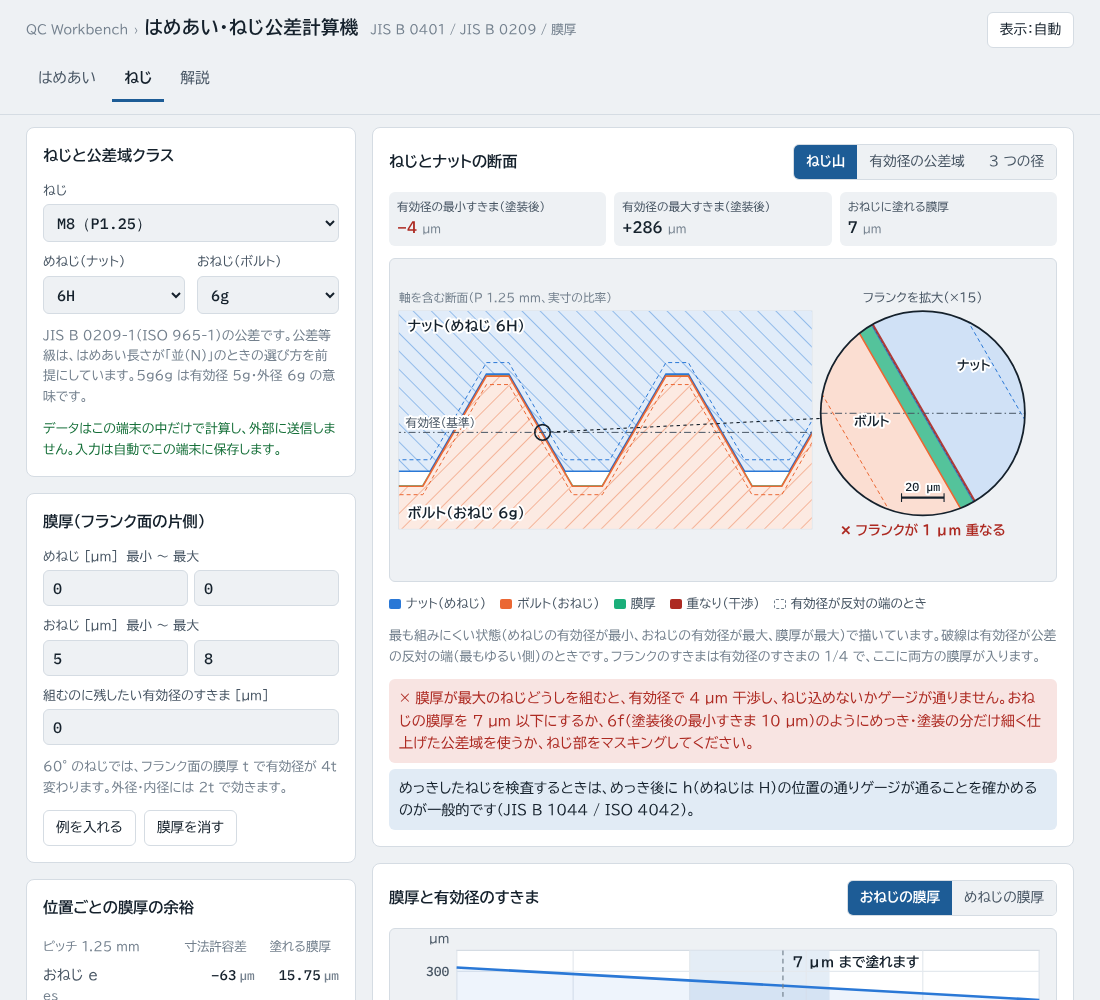
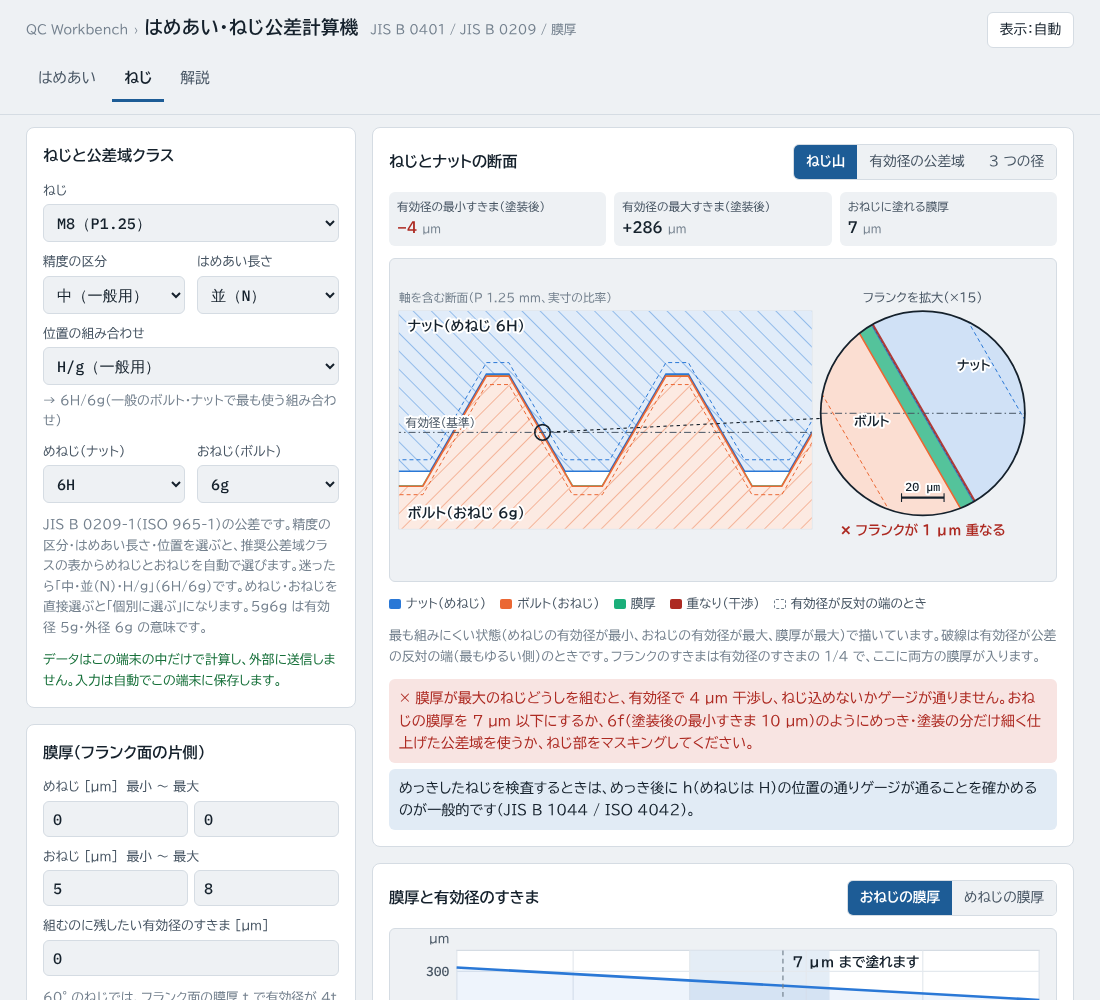
ねじの公差域クラスを、精度の区分・はめあい長さ・位置から推奨表どおりに自動で選べるようにする
- JIS B 0209-1（ISO 965-1）の推奨公差域クラスの表を持ち、めねじとおねじの組み合わせを選ぶ
- 推奨表にない長さ・位置は選べないようにし、区分を変えたときは使えるものに寄せる
- ピッチが小さく定められていない等級は理由を表示する
- めねじ・おねじを直接選ぶと、推奨表にあたる区分を表示し、なければ「個別に選ぶ」にする
- おねじに 4g・5g4g・5h4h・9e8e を追加
- 解説に推奨表を載せ、テストを追加（196 件）

Changed region(s): [[0.0309, 0.248, 0.3091, 1.0], [0.0309, 0.248, 0.0927, 0.279]]

diff --git a/js/app.js b/js/app.js
@@ -20,7 +20,7 @@
 
   // ---- 状態 ----
   const FIT_EX = { D: '25', hl: 'H', hg: '7', sl: 'g', sg: '6', th0: '0', th1: '0', ts0: '10', ts1: '20', creq: '0' };
-  const THR_EX = { sel: '8|1.25', d: '', P: '', ic: '6H', ec: '6g', ti0: '0', ti1: '0', te0: '5', te1: '8', creq: '0' };
+  const THR_EX = { sel: '8|1.25', d: '', P: '', q: 'medium', len: 'N', fp: 'Hg', ic: '6H', ec: '6g', ti0: '0', ti1: '0', te0: '5', te1: '8', creq: '0' };
   const DEF = { mode: 'fit', fit: { ...FIT_EX, sweep: 's', list: 'hole' }, thr: { ...THR_EX, sweep: 'e', zone: 'shape' } };
   let st = store.get(KEY);
   if (!st || !st.fit || !st.thr) st = JSON.parse(JSON.stringify(DEF));
@@ -48,17 +48,60 @@
     `<optgroup label="その他">${opt('custom', '呼び径とピッチを入れる')}</optgroup>`;
   $('tIc').innerHTML = FC.INT_CLASSES.map(c => opt(c, c)).join('');
   $('tEc').innerHTML = FC.EXT_CLASSES.map(c => opt(c, c)).join('');
+  $('tQ').innerHTML = opt('', '個別に選ぶ') + Object.entries(FC.QUALITY_JA).map(([v, t]) => opt(v, t + (v === 'medium' ? '（一般用）' : v === 'fine' ? '（精密）' : '（粗い）'))).join('');
+  $('tL').innerHTML = FC.LENGTHS.map(v => opt(v, FC.LENGTH_JA[v])).join('');
+  $('tFp').innerHTML = FC.THREAD_POS.map(x => opt(x.v, x.ja)).join('');
 
   // ---- 入力と状態の対応 ----
   const FIT_IN = { fD: 'D', fHl: 'hl', fHg: 'hg', fSl: 'sl', fSg: 'sg', fTh0: 'th0', fTh1: 'th1', fTs0: 'ts0', fTs1: 'ts1', fCreq: 'creq' };
-  const THR_IN = { tSel: 'sel', tD: 'd', tP: 'P', tIc: 'ic', tEc: 'ec', tTi0: 'ti0', tTi1: 'ti1', tTe0: 'te0', tTe1: 'te1', tCreq: 'creq' };
+  const THR_IN = { tSel: 'sel', tD: 'd', tP: 'P', tQ: 'q', tL: 'len', tFp: 'fp', tIc: 'ic', tEc: 'ec', tTi0: 'ti0', tTi1: 'ti1', tTe0: 'te0', tTe1: 'te1', tCreq: 'creq' };
   function fillInputs() {
     Object.entries(FIT_IN).forEach(([id, k]) => { $(id).value = st.fit[k] ?? ''; });
     Object.entries(THR_IN).forEach(([id, k]) => { $(id).value = st.thr[k] ?? ''; });
     $('fPreset').value = PRESETS.some(p => p[0] === `${st.fit.hl}${st.fit.hg}/${st.fit.sl}${st.fit.sg}`) ? `${st.fit.hl}${st.fit.hg}/${st.fit.sl}${st.fit.sg}` : '';
   }
   Object.entries(FIT_IN).forEach(([id, k]) => $(id).addEventListener($(id).tagName === 'SELECT' ? 'change' : 'input', () => { st.fit[k] = $(id).value; save(); render(); }));
-  Object.entries(THR_IN).forEach(([id, k]) => $(id).addEventListener($(id).tagName === 'SELECT' ? 'change' : 'input', () => { st.thr[k] = $(id).value; save(); render(); }));
+  Object.entries(THR_IN).forEach(([id, k]) => $(id).addEventListener($(id).tagName === 'SELECT' ? 'change' : 'input', () => {
+    st.thr[k] = $(id).value;
+    if (k === 'q' || k === 'len' || k === 'fp') { if (k !== 'q' && !st.thr.q) st.thr.q = 'medium'; applyStd(); }
+    else if (k === 'ic' || k === 'ec') syncStd();
+    fillInputs(); save(); render();
+  }));
+  // 標準の組み合わせ：精度の区分・はめあい長さ・位置から、めねじとおねじの公差域クラスを決める
+  // 推奨表にある組み合わせか（ねじの寸法は問わない）
+  const stdOk = (q, len, fp) => !FC.standardThreadClass({ quality: q, length: len, pos: fp }).error;
+  function applyStd() {
+    const t = st.thr; if (!t.q) return;
+    // 推奨表にない長さ・位置になったら、使えるものに寄せる（長さは N を、位置は表の順を優先）
+    if (!FC.THREAD_POS.some(x => stdOk(t.q, t.len, x.v))) t.len = ['N', 'L', 'S'].find(l => FC.THREAD_POS.some(x => stdOk(t.q, l, x.v)));
+    if (!stdOk(t.q, t.len, t.fp)) t.fp = FC.THREAD_POS.find(x => stdOk(t.q, t.len, x.v)).v;
+    const r = FC.standardThreadClass({ quality: t.q, length: t.len, pos: t.fp });
+    t.ic = r.int; t.ec = r.ext;
+  }
+  // 推奨表にない長さ・位置は選べないようにする
+  function stdOptions() {
+    const t = st.thr;
+    [...$('tL').options].forEach(o => { o.disabled = !!t.q && !FC.THREAD_POS.some(x => stdOk(t.q, o.value, x.v)); });
+    [...$('tFp').options].forEach(o => { o.disabled = !!t.q && !stdOk(t.q, t.len, o.value); });
+  }
+  // めねじ・おねじを直接選んだときは、推奨表の組み合わせにあたればその区分を表示し、なければ「個別に選ぶ」にする
+  function syncStd() {
+    const t = st.thr, m = FC.findStandardThread(t.ic, t.ec);
+    if (t.q) { const r = FC.standardThreadClass({ quality: t.q, length: t.len, pos: t.fp }); if (!r.error && r.int === t.ic && r.ext === t.ec) return; }
+    if (m.length) Object.assign(t, { q: m[0].quality, len: m[0].length, fp: m[0].pos }); else t.q = '';
+  }
+  syncStd();
+  // 選んだ標準の組み合わせの説明（推奨表にない・このねじで定められていない場合はその理由）
+  function stdNote(d, P) {
+    const t = st.thr, el = $('tStd');
+    stdOptions();
+    if (!t.q) { el.textContent = `個別に選んでいます（${t.ic}/${t.ec}）。推奨公差域クラスの組み合わせではありません。`; el.classList.remove('ng'); return; }
+    const r = FC.standardThreadClass({ quality: t.q, length: t.len, pos: t.fp, d, P });
+    el.classList.toggle('ng', !!r.error);
+    if (r.error) { el.textContent = '× ' + r.error; return; }
+    const first = t.q === 'medium' && t.len === 'N' && t.fp === 'Hg';
+    el.textContent = `→ ${r.int}/${r.ext}${first ? '（一般のボルト・ナットで最も使う組み合わせ）' : ''}`;
+  }
   $('fPreset').addEventListener('change', () => {
     const v = $('fPreset').value; if (!v) return;
     const [h, s] = v.split('/'), ph = FC.parseFitClass(h), ps = FC.parseFitClass(s);
@@ -356,6 +399,7 @@
     const coat = { i: readRange('tTi0', 'tTi1', t.ti0, t.ti1, bad), e: readRange('tTe0', 'tTe1', t.te0, t.te1, bad) };
     let creq = String(t.creq).trim() === '' ? 0 : num(t.creq); if (!Number.isFinite(creq)) { bad.add('tCreq'); creq = 0; }
     markBad(Object.keys(THR_IN), bad);
+    stdNote(bad.has('tD') || bad.has('tP') ? null : d, bad.has('tD') || bad.has('tP') ? null : P);
     const ic = FC.parseThreadClass(t.ic, false), ec = FC.parseThreadClass(t.ec, true);
     tCopy.length = 0;
     thrRes = bad.has('tD') || bad.has('tP') ? { error: '呼び径とピッチを mm で入れてください。' } : bad.size ? { error: '赤い欄の値を見直してください。膜厚は 0 以上で、最小 ≤ 最大にします。' } : FC.threadFit({ d, P, int: ic, ext: ec, coat, creq });
@@ -490,7 +534,7 @@
     });
     s += `<text x="${L - 8}" y="${T - 10}" font-size="10" fill="${css('--ng')}" text-anchor="end">✕ 干渉あり</text>`;
     el.innerHTML = s + '</svg>';
-    el.querySelectorAll('.pick').forEach(g => g.addEventListener('click', () => { st.thr.ec = g.dataset.c; fillInputs(); save(); render(); }));
+    el.querySelectorAll('.pick').forEach(g => g.addEventListener('click', () => { st.thr.ec = g.dataset.c; syncStd(); fillInputs(); save(); render(); }));
   }
 
   // ねじとナットの断面（軸を含む断面）。左は実寸の比率、右の円は 1 つのフランクを拡大した図

diff --git a/index.html b/index.html
@@ -96,6 +96,8 @@ nav.tabs button:focus-visible { outline: 2px solid var(--accent); outline-offset
 .fields.three { grid-template-columns: repeat(3, minmax(0, 1fr)); }
 .field { display: flex; flex-direction: column; gap: 3px; min-width: 0; }
 .field.wide { grid-column: 1 / -1; }
+.fields > .hint.wide { grid-column: 1 / -1; margin-top: -4px; }
+.hint.std.ng { color: var(--ng); }
 .field label, .field .lab { font-size: .8rem; color: var(--ink2); }
 .pair { display: grid; grid-template-columns: minmax(0, 1fr) minmax(0, 1fr); gap: 6px; }
 input[type="text"], select { width: 100%; font: 500 .95rem var(--f-num); color: var(--ink); background: var(--bg); border: 1px solid var(--line); border-radius: 6px; padding: 7px 9px; }
@@ -246,10 +248,14 @@ footer a { color: inherit; }
           <div class="field wide"><label for="tSel">ねじ</label><select id="tSel"></select></div>
           <div class="field" id="tDf" hidden><label for="tD">呼び径 [mm]</label><input type="text" id="tD" inputmode="decimal"></div>
           <div class="field" id="tPf" hidden><label for="tP">ピッチ [mm]</label><input type="text" id="tP" inputmode="decimal"></div>
+          <div class="field"><label for="tQ">精度の区分</label><select id="tQ"></select></div>
+          <div class="field"><label for="tL">はめあい長さ</label><select id="tL"></select></div>
+          <div class="field wide"><label for="tFp">位置の組み合わせ</label><select id="tFp"></select></div>
+          <p class="hint wide std" id="tStd" aria-live="polite"></p>
           <div class="field"><label for="tIc">めねじ（ナット）</label><select id="tIc"></select></div>
           <div class="field"><label for="tEc">おねじ（ボルト）</label><select id="tEc"></select></div>
         </div>
-        <p class="hint">JIS B 0209-1（ISO 965-1）の公差です。公差等級は、はめあい長さが「並（N）」のときの選び方を前提にしています。5g6g は有効径 5g・外径 6g の意味です。</p>
+        <p class="hint">JIS B 0209-1（ISO 965-1）の公差です。精度の区分・はめあい長さ・位置を選ぶと、推奨公差域クラスの表からめねじとおねじを自動で選びます。迷ったら「中・並（N）・H/g」（6H/6g）です。めねじ・おねじを直接選ぶと「個別に選ぶ」になります。5g6g は有効径 5g・外径 6g の意味です。</p>
         <p class="privacy">データはこの端末の中だけで計算し、外部に送信しません。入力は自動でこの端末に保存します。</p>
       </div>
       <div class="box">
@@ -376,7 +382,56 @@ footer a { color: inherit; }
 <li>位置：おねじは e・f・g・h、めねじは G・H。h・H は基礎となる寸法許容差が 0 で、e・f・g と G は膜厚などのためのすきまを持たせた位置です</li>
 <li>等級：有効径の公差（めねじ TD2、おねじ Td2）、めねじの内径の公差 TD1、おねじの外径の公差 Td を表から引きます。有効径の公差は呼び径の区分とピッチで、内径・外径の公差はピッチだけで決まります</li>
 <li>5g6g は「有効径 5g・外径 6g」、6g は「有効径・外径とも 6g」の意味です</li>
-<li>等級の選び方は、はめあい長さ（S・N・L）と精度（精・中・粗）で JIS に推奨があります。このツールは入れた公差域クラスの値をそのまま使います</li>
+<li>等級の選び方は、はめあい長さ（S・N・L）と精度（精・中・粗）で JIS に推奨があります。「精度の区分」「はめあい長さ」「位置の組み合わせ」を選ぶと、下の表からめねじとおねじを自動で選びます。めねじ・おねじを直接選ぶこともできます</li>
+</ul>
+<h4>推奨公差域クラス（JIS B 0209-1 / ISO 965-1）</h4>
+<table>
+<thead>
+<tr>
+<th>精度</th>
+<th>めねじ G（S / N / L）</th>
+<th>めねじ H</th>
+<th>おねじ e</th>
+<th>おねじ f</th>
+<th>おねじ g</th>
+<th>おねじ h</th>
+</tr>
+</thead>
+<tbody>
+<tr>
+<td>精</td>
+<td>― / ― / ―</td>
+<td>4H / 5H / 6H</td>
+<td>― / ― / ―</td>
+<td>― / ― / ―</td>
+<td>― / 4g / 5g4g</td>
+<td>3h4h / 4h / 5h4h</td>
+</tr>
+<tr>
+<td>中</td>
+<td>5G / 6G / 7G</td>
+<td>5H / 6H / 7H</td>
+<td>― / 6e / 7e6e</td>
+<td>― / 6f / ―</td>
+<td>5g6g / 6g / 7g6g</td>
+<td>5h6h / 6h / 7h6h</td>
+</tr>
+<tr>
+<td>粗</td>
+<td>― / 7G / 8G</td>
+<td>― / 7H / 8H</td>
+<td>― / 8e / 9e8e</td>
+<td>― / ― / ―</td>
+<td>― / 8g / 9g8g</td>
+<td>― / ― / ―</td>
+</tr>
+</tbody>
+</table>
+<ul>
+<li>一般のボルト・ナットは「中・並（N）」の 6H/6g です。迷ったらこれを選びます</li>
+<li>めねじとおねじは表のどれとどれを組んでもかまいませんが、十分なかみ合いを確保するため H/g・H/h・G/h の組み合わせが勧められています。e・f は、めっき・塗装の膜厚を見込むときに使います（このツールでは H/e・H/f として選べます）</li>
+<li>表にあっても、ピッチが小さいねじでは定められていない等級があります（8 級の外径公差は P 0.8 mm 以上、e は P 0.5 mm 以上など）。そのときは理由を表示し、計算はしません</li>
+<li>はめあい長さ S・N・L の境目（呼び径とピッチで決まる長さ）は自動では判定しません。ナットの高さが 0.8d 前後の一般的なボルト・ナットは N です</li>
 </ul>
 <h3>はめあいを決めるのは有効径</h3>
 <p>めねじとおねじは、山の斜面（フランク）どうしが当たってかみ合います。外径・内径（山の頂と谷）には有効径より大きなすきまがあるので、組めるかどうかは有効径のすきまで決まります。</p>

diff --git a/js/fit.js b/js/fit.js
@@ -217,8 +217,60 @@
     ...FINE.map(([d, P]) => ({ d, P, coarse: false, name: `M${d}×${P}` }))
   ];
 
-  const EXT_CLASSES = ['3h4h', '4h', '5g6g', '5h6h', '6e', '6f', '6g', '6h', '7e6e', '7g6g', '7h6h', '8e', '8g', '9g8g'];
+  const EXT_CLASSES = ['3h4h', '4g', '4h', '5g4g', '5g6g', '5h4h', '5h6h', '6e', '6f', '6g', '6h', '7e6e', '7g6g', '7h6h', '8e', '8g', '9e8e', '9g8g'];
   const INT_CLASSES = ['4H', '5H', '6H', '7H', '8H', '5G', '6G', '7G', '8G'];
+
+  // JIS B 0209-1（ISO 965-1）の推奨公差域クラス。精度の区分 × はめあい長さ（S / N / L の順）
+  // null は推奨表にないもの。括弧付き（第 2・第 3 選択）も含めて持つ
+  const THREAD_REC = {
+    int: {
+      fine: { G: [null, null, null], H: ['4H', '5H', '6H'] },
+      medium: { G: ['5G', '6G', '7G'], H: ['5H', '6H', '7H'] },
+      coarse: { G: [null, '7G', '8G'], H: [null, '7H', '8H'] }
+    },
+    ext: {
+      fine: { e: [null, null, null], f: [null, null, null], g: [null, '4g', '5g4g'], h: ['3h4h', '4h', '5h4h'] },
+      medium: { e: [null, '6e', '7e6e'], f: [null, '6f', null], g: ['5g6g', '6g', '7g6g'], h: ['5h6h', '6h', '7h6h'] },
+      coarse: { e: [null, '8e', '9e8e'], f: [null, null, null], g: [null, '8g', '9g8g'], h: [null, null, null] }
+    }
+  };
+  const QUALITY_JA = { fine: '精', medium: '中', coarse: '粗' };
+  const LENGTHS = ['S', 'N', 'L'];
+  const LENGTH_JA = { S: '短い（S）', N: '並（N）', L: '長い（L）' };
+  // 位置の組み合わせ。めねじの位置 + おねじの位置
+  const THREAD_POS = [
+    { v: 'Hg', ip: 'H', ep: 'g', ja: 'H/g（一般用）' },
+    { v: 'Hh', ip: 'H', ep: 'h', ja: 'H/h（すきまなし）' },
+    { v: 'Gh', ip: 'G', ep: 'h', ja: 'G/h（めねじ側にすきま）' },
+    { v: 'Hf', ip: 'H', ep: 'f', ja: 'H/f（膜厚を見込む）' },
+    { v: 'He', ip: 'H', ep: 'e', ja: 'H/e（厚い膜厚を見込む）' }
+  ];
+
+  // 精度の区分・はめあい長さ・位置から標準の公差域クラスを選ぶ。d・P を渡すとそのねじで定められているかも確かめる
+  function standardThreadClass({ quality, length = 'N', pos = 'Hg', d, P }) {
+    const q = THREAD_REC.int[quality], li = LENGTHS.indexOf(length), tp = THREAD_POS.find(x => x.v === pos);
+    if (!q || li < 0 || !tp) return { error: '精度の区分・はめあい長さ・位置の指定が正しくありません。' };
+    const ic = q[tp.ip][li], ec = THREAD_REC.ext[quality][tp.ep][li];
+    const lab = `${QUALITY_JA[quality]}・${LENGTH_JA[length]}`;
+    if (!ic || !ec) {
+      const miss = [!ic && `めねじの ${tp.ip}`, !ec && `おねじの ${tp.ep}`].filter(Boolean).join('・');
+      return { error: `${lab}では${miss} は推奨されていません（JIS B 0209-1 の推奨公差域クラス）。`, int: ic, ext: ec };
+    }
+    if (d != null && P != null) {
+      const z = threadZones({ d, P, int: parseThreadClass(ic, false), ext: parseThreadClass(ec, true) });
+      if (z.error) return { error: `${lab}の ${ic}/${ec} は、このねじでは使えません。${z.error}`, int: ic, ext: ec };
+    }
+    return { int: ic, ext: ec, label: lab };
+  }
+  // 公差域クラスの組み合わせが推奨表のどれにあたるか（はめあい長さは N を優先して探す）
+  function findStandardThread(ic, ec) {
+    const out = [];
+    for (const quality of ['medium', 'fine', 'coarse']) for (const length of ['N', 'S', 'L']) for (const tp of THREAD_POS) {
+      const r = standardThreadClass({ quality, length, pos: tp.v });
+      if (!r.error && r.int === ic && r.ext === ec) out.push({ quality, length, pos: tp.v });
+    }
+    return out;
+  }
 
   // 「6g」「5g6g」→ { pos, g2（有効径の等級）, gd（外径の等級） }、「6H」→ { pos, g }
   function parseThreadClass(s, ext) {
@@ -303,7 +355,8 @@
 
   const api = {
     tolZone, fit, parseFitClass, rangeIndex, SHAFT_LETTERS, HOLE_LETTERS, GRADES, IT,
-    threadZones, threadFit, parseThreadClass, coatingRoomByPosition, THREADS, EXT_CLASSES, INT_CLASSES, fitType
+    threadZones, threadFit, parseThreadClass, coatingRoomByPosition, THREADS, EXT_CLASSES, INT_CLASSES, fitType,
+    standardThreadClass, findStandardThread, THREAD_REC, THREAD_POS, QUALITY_JA, LENGTH_JA, LENGTHS
   };
   if (typeof module !== 'undefined' && module.exports) module.exports = api;
   else root.FitCalc = api;

diff --git a/tests/test.js b/tests/test.js
@@ -69,5 +69,28 @@ function thr(d, P, ic, ec) { return F.threadFit({ d, P, int: F.parseThreadClass(
   n++; if (!thr(2, 0.4, '6H', '6e').error) { fail++; console.log('✕ P0.4 の e は定められていないはず'); }
 }
 
+// ---- 推奨公差域クラス（JIS B 0209-1 / ISO 965-1） ----
+{
+  const std = (quality, length, pos, d, P) => F.standardThreadClass({ quality, length, pos, d, P });
+  const same = (name, r, want) => { n++; const got = r.error ? 'error' : `${r.int}/${r.ext}`; if (got !== want) { fail++; console.log(`✕ ${name}: ${got} ≠ ${want}`); } };
+  same('中・N・H/g', std('medium', 'N', 'Hg'), '6H/6g'); same('中・N・H/h', std('medium', 'N', 'Hh'), '6H/6h');
+  same('中・N・G/h', std('medium', 'N', 'Gh'), '6G/6h'); same('中・N・H/e', std('medium', 'N', 'He'), '6H/6e'); same('中・N・H/f', std('medium', 'N', 'Hf'), '6H/6f');
+  same('中・S・H/g', std('medium', 'S', 'Hg'), '5H/5g6g'); same('中・L・H/g', std('medium', 'L', 'Hg'), '7H/7g6g');
+  same('精・N・H/h', std('fine', 'N', 'Hh'), '5H/4h'); same('精・S・H/h', std('fine', 'S', 'Hh'), '4H/3h4h'); same('精・L・H/g', std('fine', 'L', 'Hg'), '6H/5g4g');
+  same('粗・N・H/g', std('coarse', 'N', 'Hg'), '7H/8g'); same('粗・L・H/g', std('coarse', 'L', 'Hg'), '8H/9g8g');
+  same('精・S・H/g は推奨表にない', std('fine', 'S', 'Hg'), 'error'); same('粗・N・H/h は推奨表にない', std('coarse', 'N', 'Hh'), 'error');
+  same('M8 粗・N・H/g は使える', std('coarse', 'N', 'Hg', 8, 1.25), '7H/8g');
+  same('M3 の 8g は定められていない', std('coarse', 'N', 'Hg', 3, 0.5), 'error');
+  // 推奨表の組み合わせはすべて EXT_CLASSES・INT_CLASSES にあり、M10 で計算できる
+  for (const q of ['fine', 'medium', 'coarse']) for (const l of F.LENGTHS) for (const p of F.THREAD_POS) {
+    const r = std(q, l, p.v); if (r.error) continue;
+    n++; if (!F.INT_CLASSES.includes(r.int) || !F.EXT_CLASSES.includes(r.ext)) { fail++; console.log(`✕ ${r.int}/${r.ext} が選択肢にない`); }
+    n++; if (std(q, l, p.v, 10, 1.5).error) { fail++; console.log(`✕ M10 で ${r.int}/${r.ext} が計算できない`); }
+  }
+  n++; if (F.findStandardThread('6H', '6g')[0]?.quality !== 'medium' || F.findStandardThread('6H', '6g')[0]?.length !== 'N') { fail++; console.log('✕ 6H/6g は 中・N'); }
+  n++; if (F.findStandardThread('6H', '8g').length) { fail++; console.log('✕ 6H/8g は推奨表の組み合わせではない'); }
+  eq('M10 9e8e の外径公差', thr(10, 1.5, '8H', '9e8e').ext.Td, 375); eq('M10 4g の有効径公差', thr(10, 1.5, '5H', '4g').ext.Td2, 85);
+}
+
 console.log(fail ? `\n${fail} / ${n} 件が不一致` : `${n} 件すべて一致`);
 process.exit(fail ? 1 : 0);

diff --git a/sw.js b/sw.js
@@ -1,6 +1,6 @@
 // はめあい・ねじ公差計算機の Service Worker
 // 公開ファイルを更新したら VERSION を上げる。古いキャッシュは activate 時に削除される
-const VERSION = 'v1.0.2';
+const VERSION = 'v1.0.3';
 const APP_CACHE = `fit-calc-${VERSION}`;
 const FONT_CACHE = 'fit-calc-fonts';
 

diff --git a/docs/explanation.md b/docs/explanation.md
@@ -59,7 +59,20 @@
 - 位置：おねじは e・f・g・h、めねじは G・H。h・H は基礎となる寸法許容差が 0 で、e・f・g と G は膜厚などのためのすきまを持たせた位置です
 - 等級：有効径の公差（めねじ TD2、おねじ Td2）、めねじの内径の公差 TD1、おねじの外径の公差 Td を表から引きます。有効径の公差は呼び径の区分とピッチで、内径・外径の公差はピッチだけで決まります
 - 5g6g は「有効径 5g・外径 6g」、6g は「有効径・外径とも 6g」の意味です
-- 等級の選び方は、はめあい長さ（S・N・L）と精度（精・中・粗）で JIS に推奨があります。このツールは入れた公差域クラスの値をそのまま使います
+- 等級の選び方は、はめあい長さ（S・N・L）と精度（精・中・粗）で JIS に推奨があります。「精度の区分」「はめあい長さ」「位置の組み合わせ」を選ぶと、下の表からめねじとおねじを自動で選びます。めねじ・おねじを直接選ぶこともできます
+
+#### 推奨公差域クラス（JIS B 0209-1 / ISO 965-1）
+
+| 精度 | めねじ G（S / N / L） | めねじ H | おねじ e | おねじ f | おねじ g | おねじ h |
+|---|---|---|---|---|---|---|
+| 精 | ― / ― / ― | 4H / 5H / 6H | ― / ― / ― | ― / ― / ― | ― / 4g / 5g4g | 3h4h / 4h / 5h4h |
+| 中 | 5G / 6G / 7G | 5H / 6H / 7H | ― / 6e / 7e6e | ― / 6f / ― | 5g6g / 6g / 7g6g | 5h6h / 6h / 7h6h |
+| 粗 | ― / 7G / 8G | ― / 7H / 8H | ― / 8e / 9e8e | ― / ― / ― | ― / 8g / 9g8g | ― / ― / ― |
+
+- 一般のボルト・ナットは「中・並（N）」の 6H/6g です。迷ったらこれを選びます
+- めねじとおねじは表のどれとどれを組んでもかまいませんが、十分なかみ合いを確保するため H/g・H/h・G/h の組み合わせが勧められています。e・f は、めっき・塗装の膜厚を見込むときに使います（このツールでは H/e・H/f として選べます）
+- 表にあっても、ピッチが小さいねじでは定められていない等級があります（8 級の外径公差は P 0.8 mm 以上、e は P 0.5 mm 以上など）。そのときは理由を表示し、計算はしません
+- はめあい長さ S・N・L の境目（呼び径とピッチで決まる長さ）は自動では判定しません。ナットの高さが 0.8d 前後の一般的なボルト・ナットは N です
 
 ### はめあいを決めるのは有効径
 

diff --git a/README.md b/README.md
@@ -46,7 +46,8 @@
 ### 入れるもの
 
 - **ねじ**：メートル並目 M1.6〜M64 と細目（ISO 261 / JIS B 0205・B 0207 のよく使うもの）。表にないものは呼び径とピッチを入れられます（ISO 965-1 の表にある組み合わせに限ります）
-- **公差域クラス**：めねじ 4H〜8H・5G〜8G、おねじ 3h4h〜9g8g（5g6g は有効径 5g・外径 6g）
+- **標準の組み合わせ**：精度の区分（精・中・粗）・はめあい長さ（S・N・L）・位置の組み合わせ（H/g・H/h・G/h・H/f・H/e）を選ぶと、JIS B 0209-1（ISO 965-1）の推奨公差域クラスからめねじとおねじを自動で選びます。推奨表にない組み合わせは選べず、そのねじのピッチで定められていない等級は理由を表示します
+- **公差域クラス**：めねじ 4H〜8H・5G〜8G、おねじ 3h4h〜9g8g（推奨表のものすべて）（5g6g は有効径 5g・外径 6g）。直接選ぶこともできます
 - **膜厚**（フランク面の片側）：めねじ・おねじそれぞれ最小〜最大
 - **組むのに残したい有効径のすきま**
 
